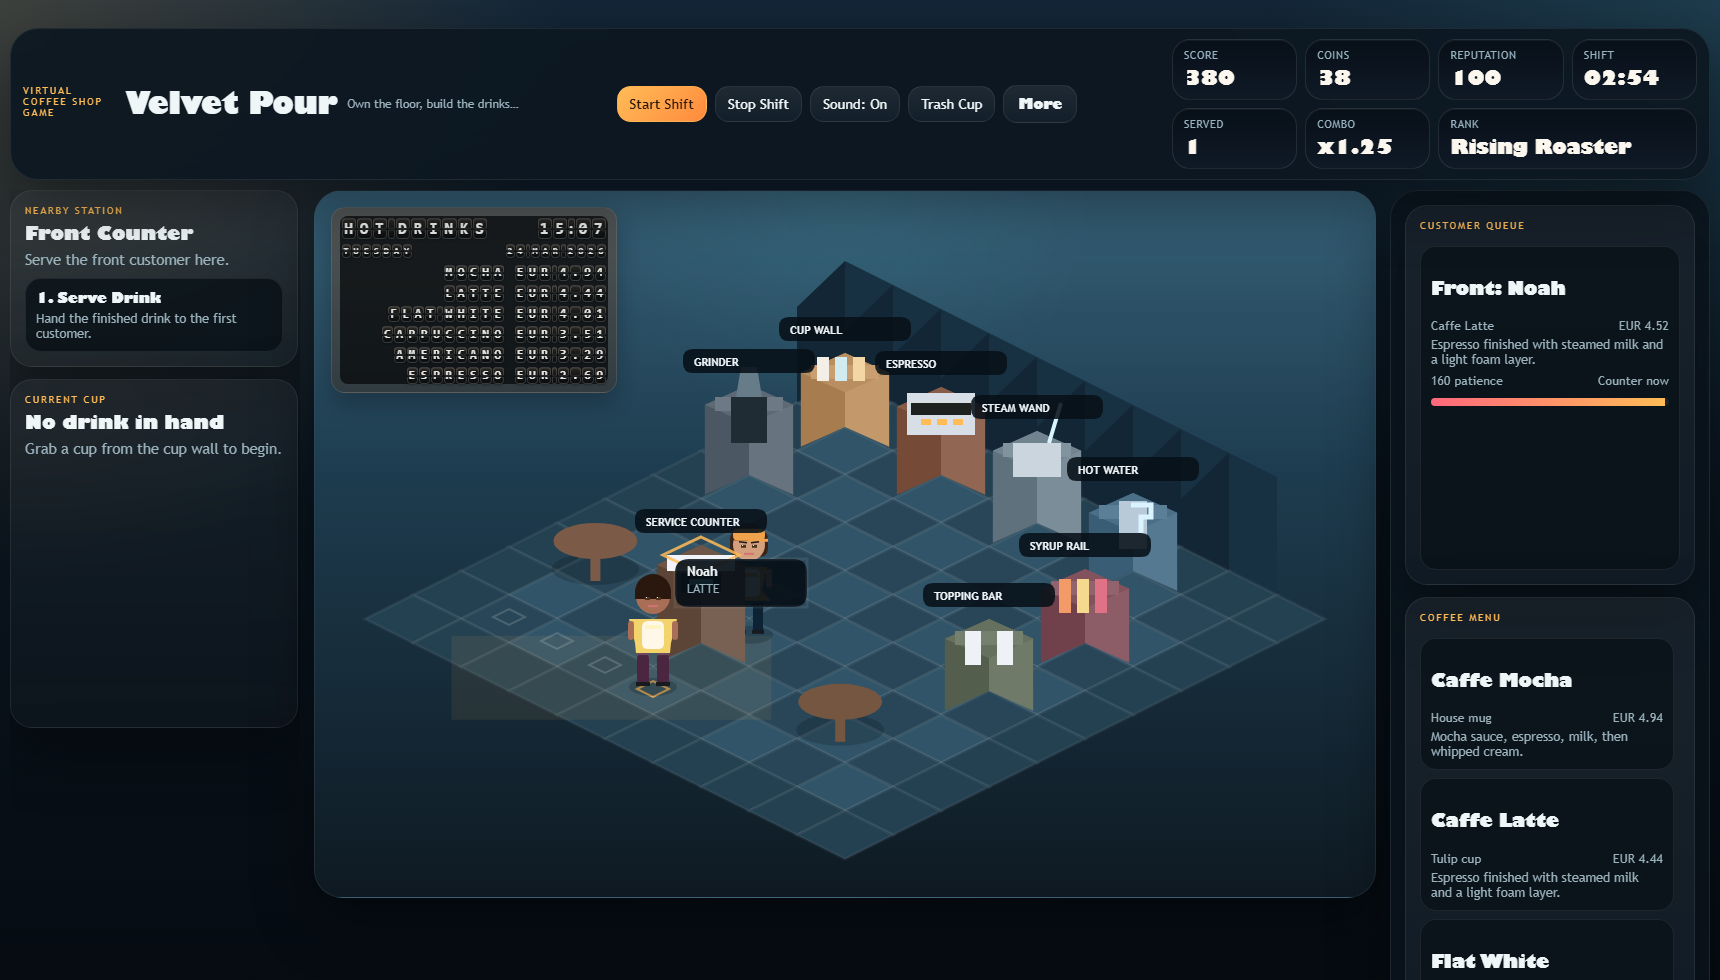
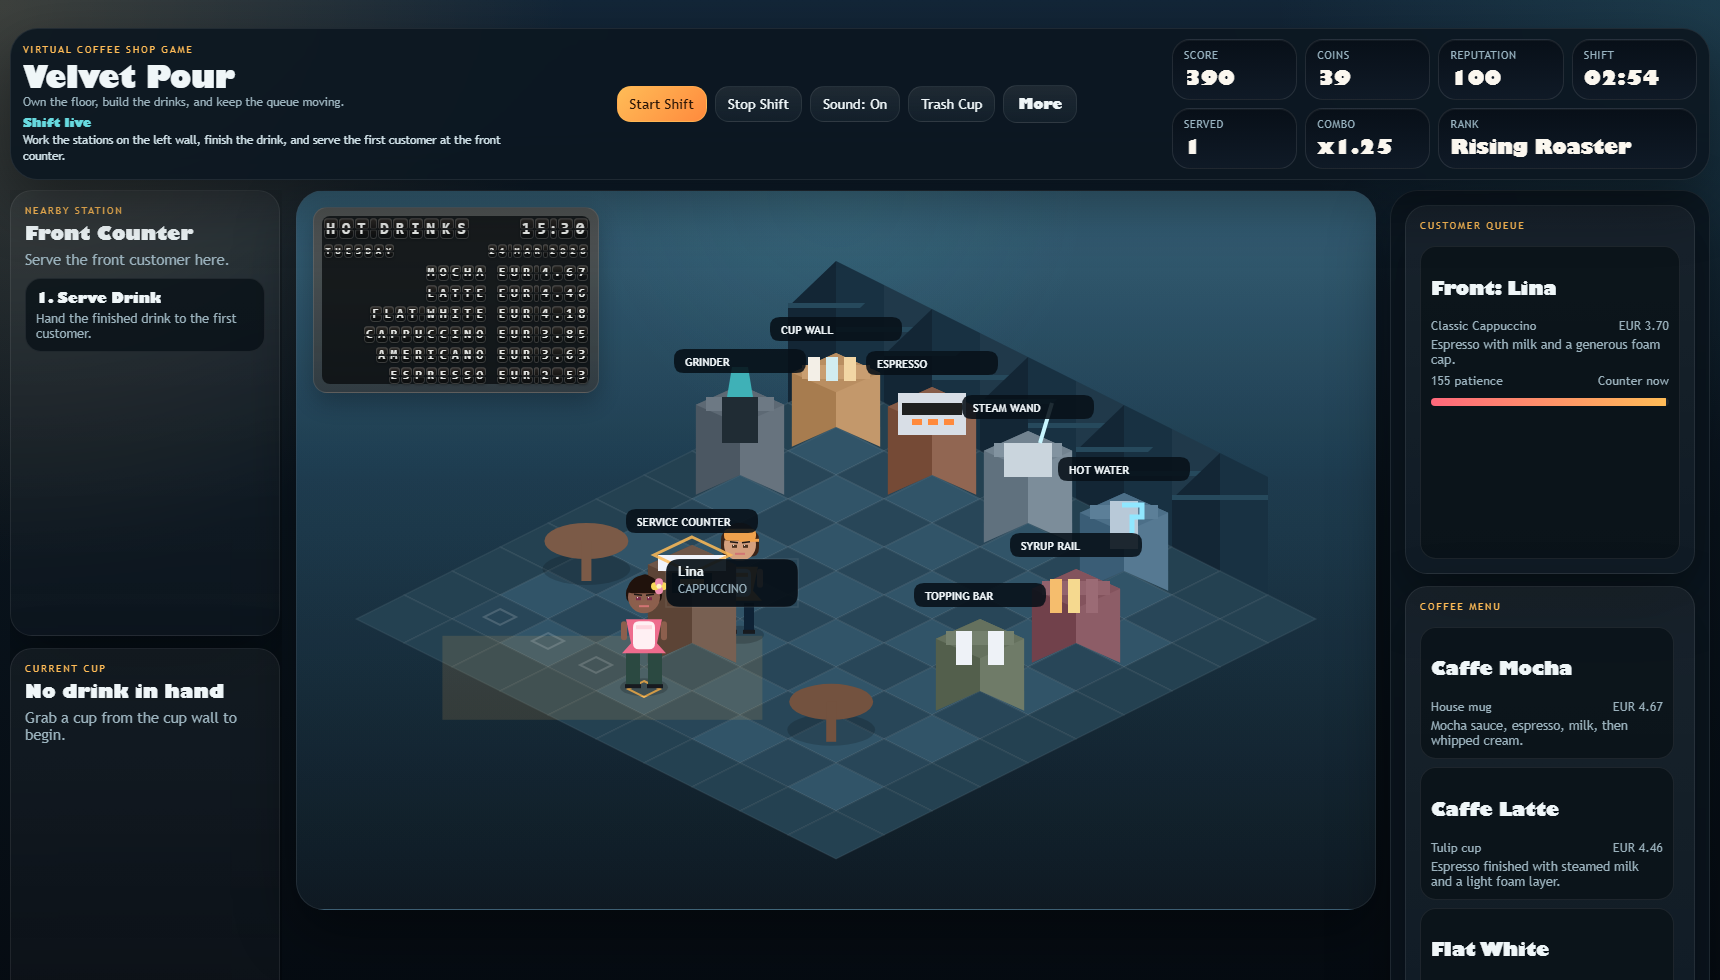
Restore briefing panel and add restaurant preview canvas

diff --git a/index.html b/index.html
@@ -14,10 +14,6 @@
           <div class="eyebrow">Virtual Coffee Shop Game</div>
           <h1>Velvet Pour</h1>
           <p>Own the floor, build the drinks, and keep the queue moving.</p>
-          <div class="header-briefing" id="overlayCard">
-            <strong>Open The Cafe</strong>
-            <span>Move through the room, build the requested drinks on the correct machines, and serve them at the front counter.</span>
-          </div>
         </div>
       </div>
 
@@ -26,6 +22,7 @@
           <button id="startButton" class="primary-button" type="button">Start Shift</button>
           <button id="stopButton" class="secondary-button" type="button">Stop Shift</button>
           <button id="soundButton" class="secondary-button" type="button">Sound: On</button>
+          <button id="musicButton" class="secondary-button" type="button">Music: On</button>
           <button id="trashButton" class="secondary-button" type="button">Trash Cup</button>
         </div>
 
@@ -66,6 +63,13 @@
         <section id="gameView" class="view-panel is-active">
           <div class="game-layout">
             <aside class="left-rail">
+              <section class="glass-card overlay-card" id="overlayCard">
+                <div class="eyebrow">Shift Briefing</div>
+                <h2>Open The Cafe</h2>
+                <p>Move through the room, build the requested drinks on the correct machines, and serve them at the front counter.</p>
+                <p class="overlay-tip">Start Shift unlocks audio and begins the customer rush.</p>
+              </section>
+
               <section class="glass-card station-card">
                 <div class="eyebrow">Nearby Station</div>
                 <h2 id="stationTitle">Walk up to a machine</h2>
@@ -211,6 +215,7 @@
               <div class="eyebrow">Restaurant Studio</div>
               <h2>Shape the coffee room</h2>
               <p>These settings sync with the live cafe in Game Zone.</p>
+              <canvas id="restaurantCanvas" width="560" height="360" aria-label="Restaurant preview"></canvas>
               <div id="restaurantSummary" class="studio-summary"></div>
             </div>
 

diff --git a/styles/app.css b/styles/app.css
@@ -123,29 +123,6 @@ code {
   text-overflow: ellipsis;
 }
 
-.header-briefing {
-  display: grid;
-  gap: 2px;
-  margin-top: 2px;
-  max-width: 520px;
-  color: #cfe0e7;
-  font-size: 0.72rem;
-  line-height: 1.35;
-}
-
-.header-briefing strong {
-  color: #fff3dc;
-  font-size: 0.76rem;
-}
-
-.header-briefing[data-state="alert"] strong {
-  color: var(--gold);
-}
-
-.header-briefing[data-state="live"] strong {
-  color: var(--cyan);
-}
-
 .topbar-controls {
   display: flex;
   align-items: center;
@@ -271,7 +248,7 @@ button:disabled {
 
 .left-rail {
   display: grid;
-  grid-template-rows: minmax(0, 1fr) minmax(0, 0.95fr);
+  grid-template-rows: auto minmax(0, 1fr) minmax(0, 0.95fr);
   gap: 12px;
   align-self: stretch;
   overflow: auto;
@@ -394,6 +371,28 @@ button:disabled {
   font-size: 0.72rem;
   font-weight: 700;
   justify-self: end;
+}
+
+.overlay-card {
+  position: relative;
+  width: 100%;
+  min-height: 0;
+}
+
+.overlay-card h2 {
+  margin: 0 0 4px;
+  font-size: 1.18rem;
+}
+
+.overlay-card p {
+  margin: 0;
+  color: var(--muted);
+  font-size: 0.82rem;
+}
+
+.overlay-tip {
+  margin-top: 6px;
+  color: var(--gold);
 }
 
 .training-panel {
@@ -753,6 +752,15 @@ button:disabled {
   aspect-ratio: 1;
   display: block;
   margin: 18px auto 0;
+  border-radius: 24px;
+  border: 1px solid rgba(255, 255, 255, 0.08);
+  background: linear-gradient(180deg, rgba(255,255,255,0.04), rgba(255,255,255,0.02));
+}
+
+#restaurantCanvas {
+  width: 100%;
+  display: block;
+  margin-top: 18px;
   border-radius: 24px;
   border: 1px solid rgba(255, 255, 255, 0.08);
   background: linear-gradient(180deg, rgba(255,255,255,0.04), rgba(255,255,255,0.02));
